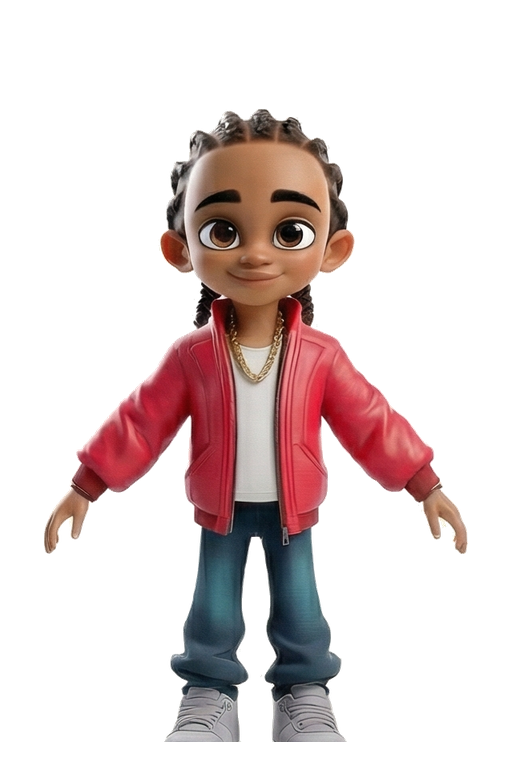
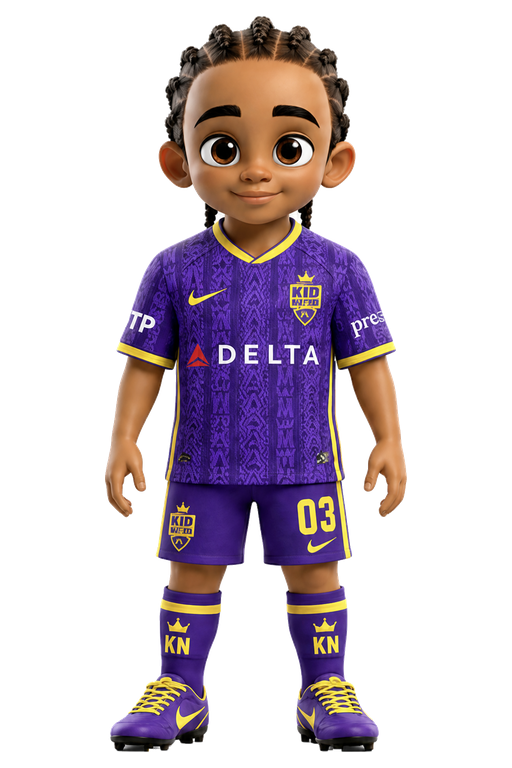
chore: replace jordan sprite with purple kit art

diff --git a/docs/assets.md b/docs/assets.md
@@ -26,12 +26,10 @@ assets/characters/bjorn.png
 Recommended character art: transparent PNG, portrait/full-body runner, centered
 in the image.
 
-The current character files are first-pass prototype crops from the supplied
-character sheets. They are suitable for visual playtesting, but should be
-replaced with clean production exports when final KidNation art is available.
-Jordan's supplied sheet does not include a perfectly clean full-body front pose
-without overlapping reference art, so that crop should be prioritized for a
-future cleanup pass.
+The current character files are first-pass prototype cuts from supplied art.
+They are suitable for visual playtesting, but should be replaced with clean
+production exports when final KidNation art is available. Jordan currently uses
+the newer purple-kit full-body artwork with its background removed.
 
 ## Background Files
 
